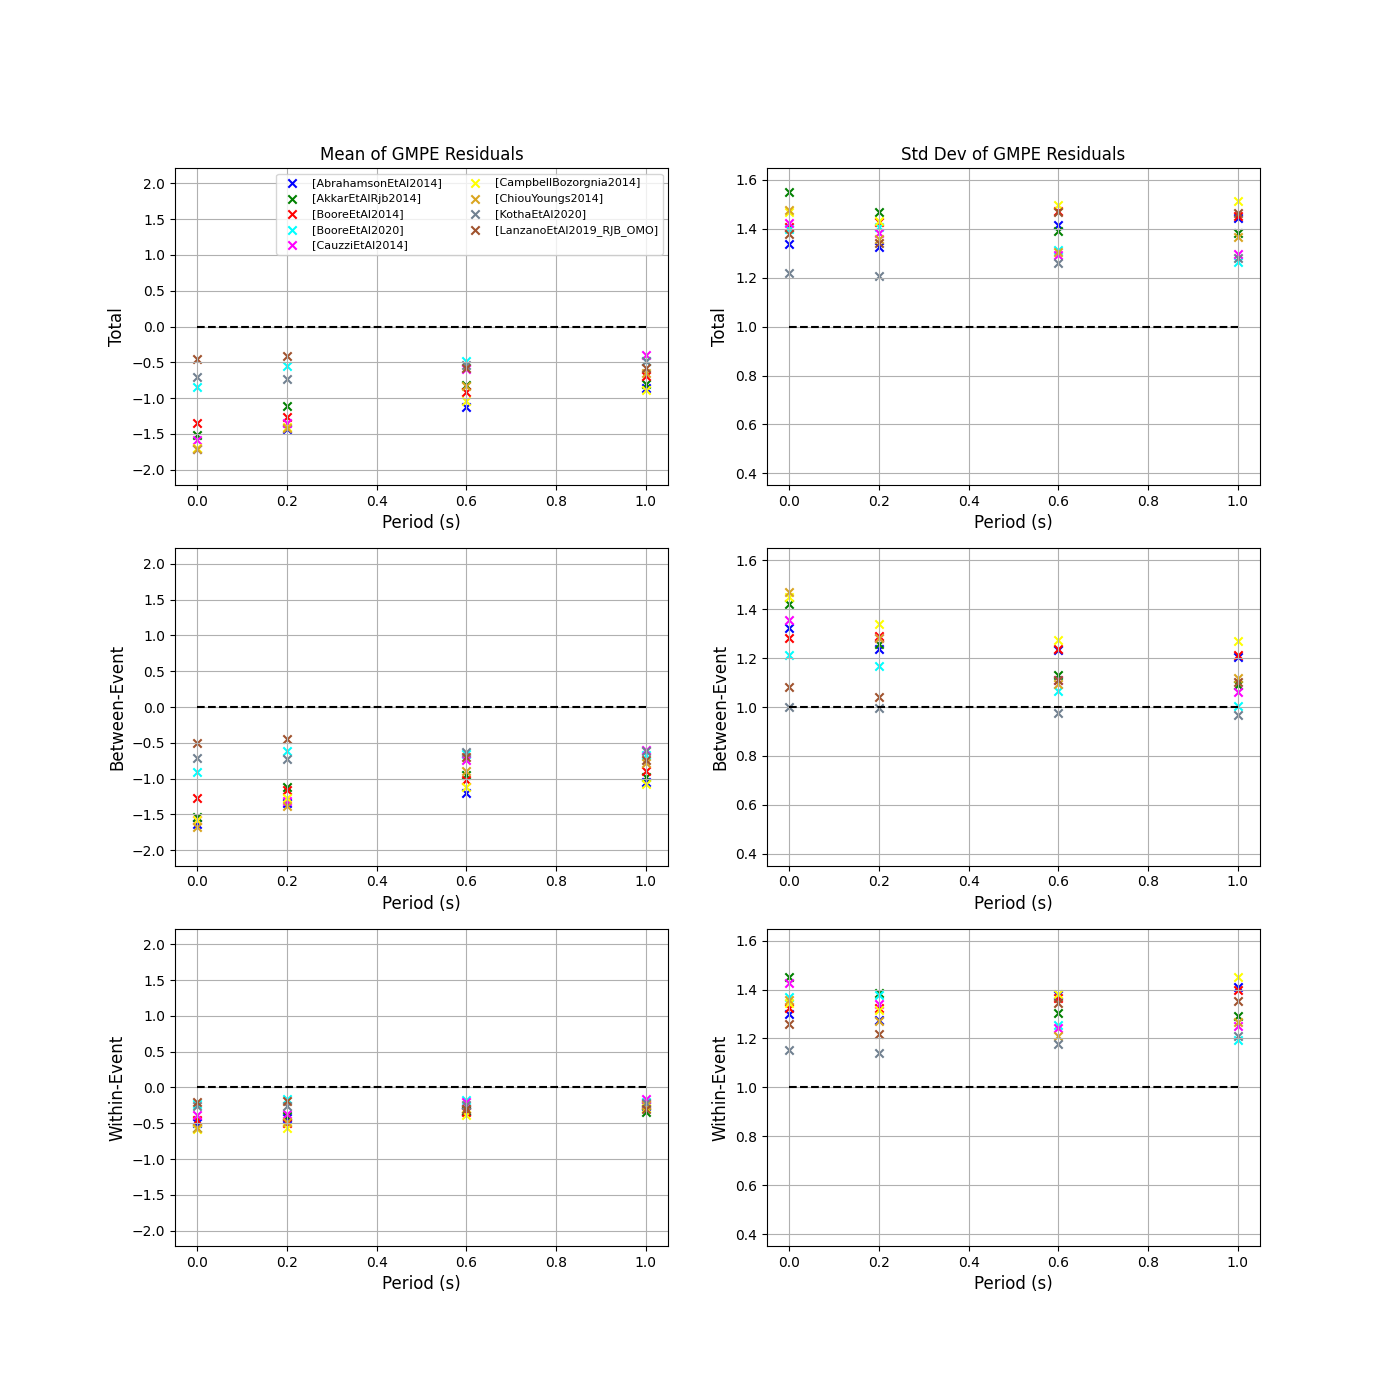
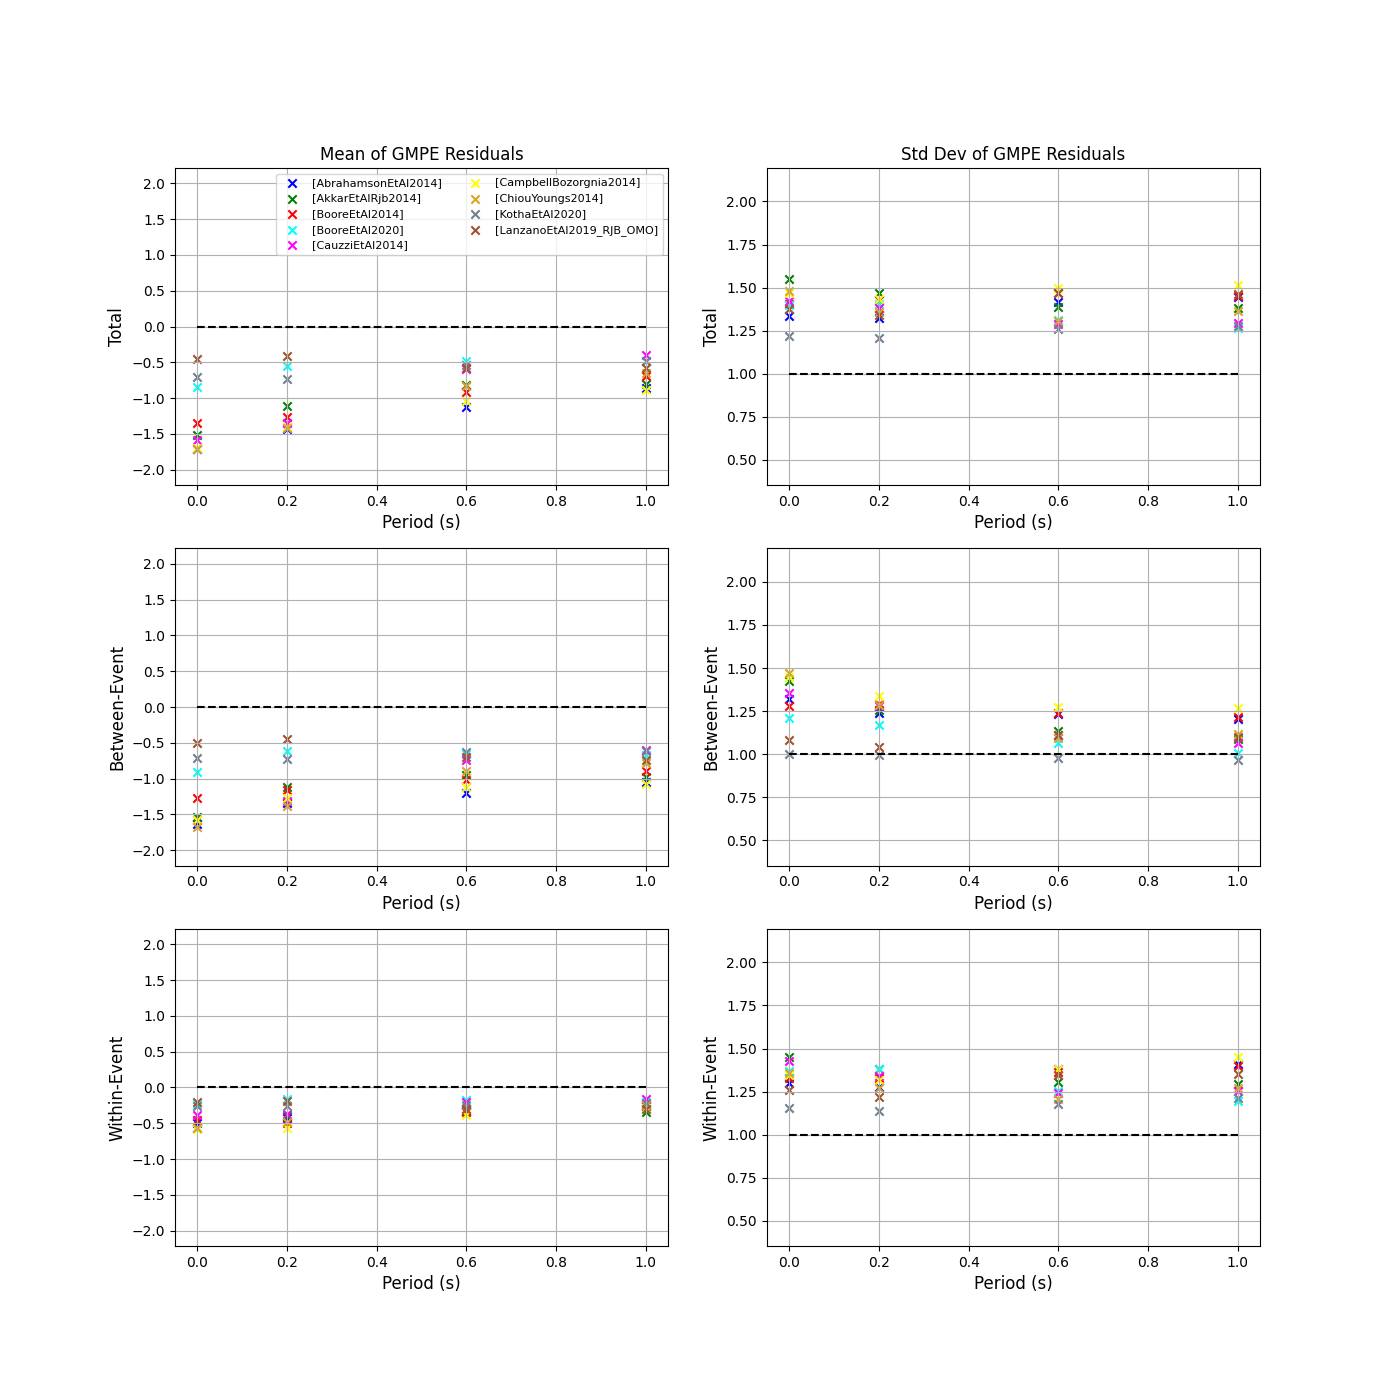
fix ylim

diff --git a/openquake/smt/residuals/residual_plotter.py b/openquake/smt/residuals/residual_plotter.py
@@ -788,21 +788,19 @@ def _set_residuals_means_and_stds_plots(residuals, res_dists, imts_to_plot):
         ax[ax_idx, 1].plot(imts_to_plot.imt_float, np.ones(len(imts_to_plot)),
                           color = 'k', linestyle = '--')
     
-    # Set axes limits and axes labels
-    means = np.concatenate([res_dists[0].loc['Mean'],
-                            res_dists[1].loc['Mean'],
-                            res_dists[2].loc['Mean']])
-    sigmas = np.concatenate([res_dists[0].loc['Std Dev'],
-                             res_dists[1].loc['Std Dev'],
-                             res_dists[2].loc['Std Dev']])
-    mean_y_bound = np.max([np.abs(np.nanmin(means)), np.abs(np.nanmax(means))])
-    sigma_y_bound_non_centered = np.max(
-        [np.abs(np.nanmax(sigmas)), np.abs(np.nanmin(sigmas))])
-    sigma_y_bound = min(np.abs(1-sigma_y_bound_non_centered),
-                        np.abs(1+sigma_y_bound_non_centered))
+    # Compute shared y-axis limits from the largest range across all components
+    all_means = np.concatenate([res_dists[0].loc['Mean'].values,
+                                res_dists[1].loc['Mean'].values,
+                                res_dists[2].loc['Mean'].values])
+    all_sigmas = np.concatenate([res_dists[0].loc['Std Dev'].values,
+                                 res_dists[1].loc['Std Dev'].values,
+                                 res_dists[2].loc['Std Dev'].values])
+    mean_bound = np.max([np.abs(np.nanmin(all_means)), np.abs(np.nanmax(all_means))])
+    sig_max = np.nanmax(all_sigmas)
+    sig_bound = np.abs(1 - sig_max) if sig_max > 1 else np.abs(1 - np.nanmin(all_sigmas))
     for ax_index in range(0, 3):
-        ax[ax_index, 0].set_ylim(-mean_y_bound-0.5, mean_y_bound+0.5)
-        ax[ax_index, 1].set_ylim(0.9-sigma_y_bound, 1.1+sigma_y_bound)
+        ax[ax_index, 0].set_ylim(-mean_bound - 0.5, mean_bound + 0.5)
+        ax[ax_index, 1].set_ylim(1 - sig_bound - 0.1, sig_max + sig_bound + 0.1)
         ax[ax_index, 0].set_xlabel('Period (s)', fontsize=12)
         ax[ax_index, 1].set_xlabel('Period (s)', fontsize=12)
     for ax_index in range(0, 2):
